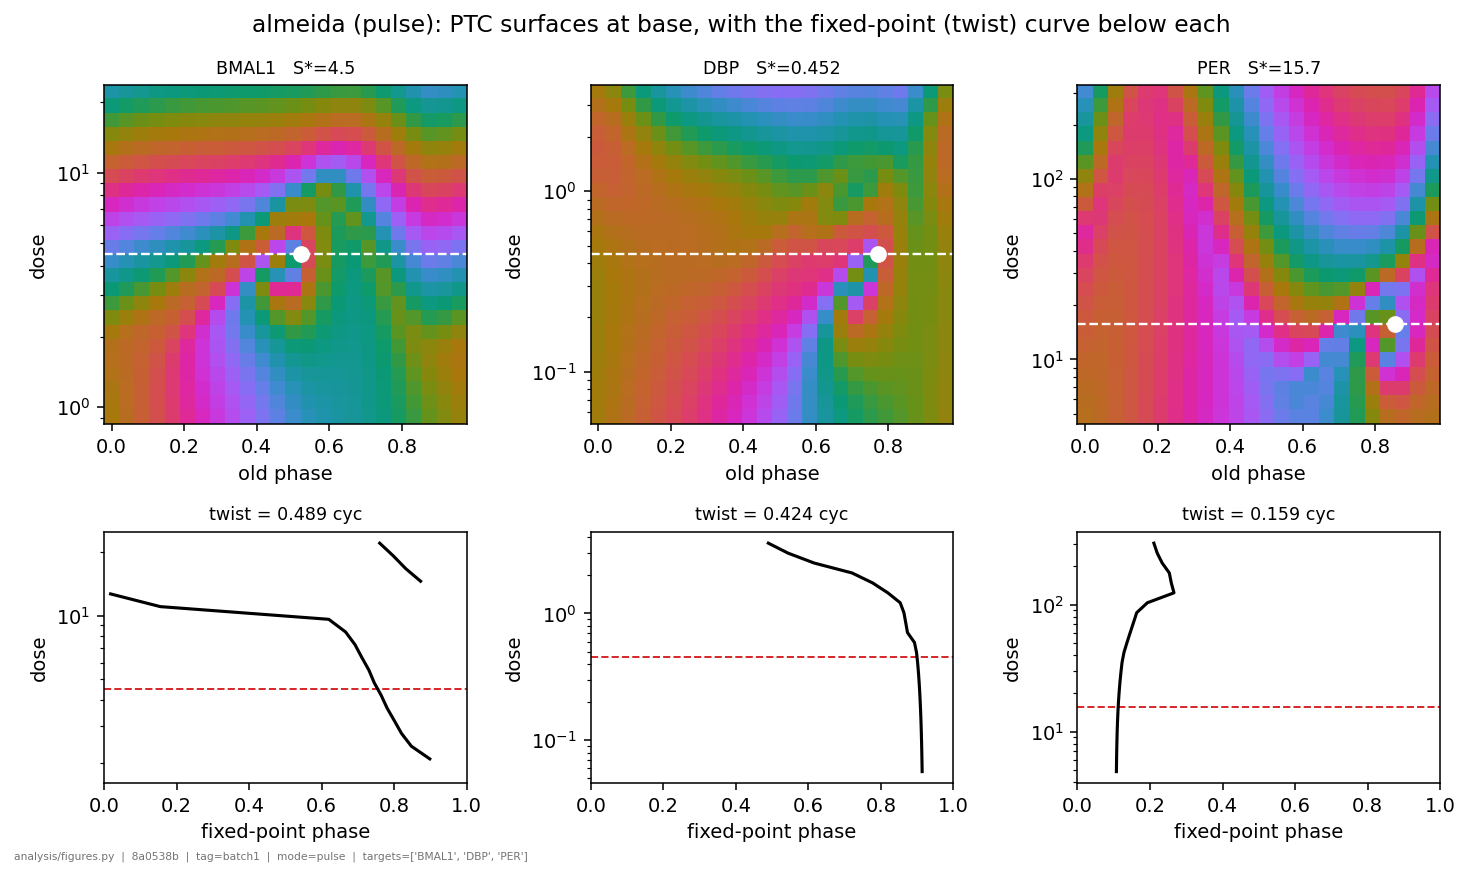
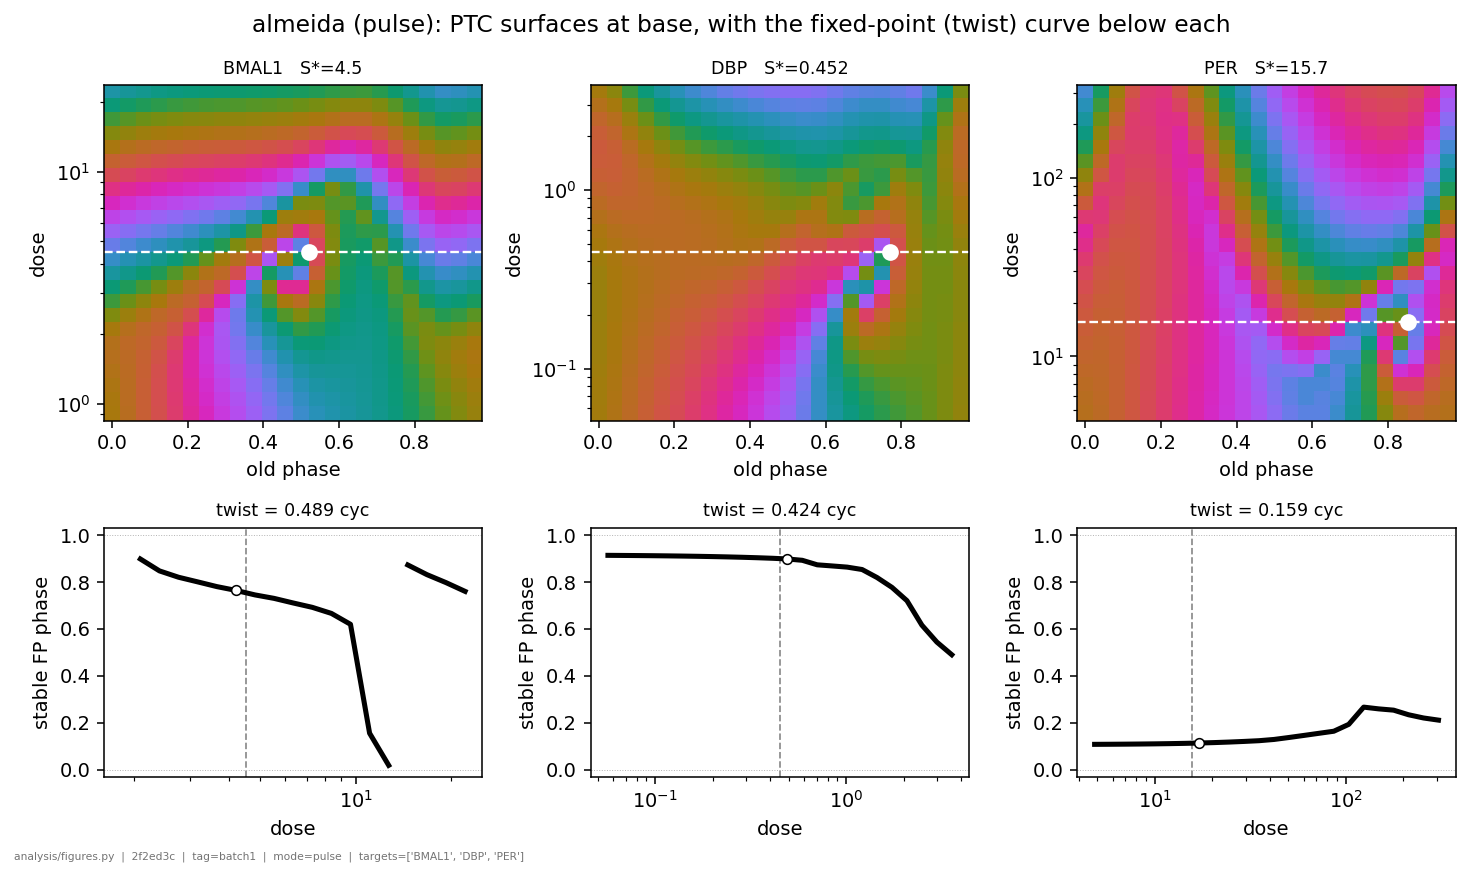
twist panel adopts the input_screen orientation: dose on x, FP phase on y
Consulted ../input_screen/sensitivity_full.py (plot_twist_movers, _broken) and
screen_core/plotting.py for the house convention, and matched it:

  * dose on x (log), stable FP phase on y, wrapped and held on a literal [0, 1]
    axis with dotted guides at 0 and 1 -- so a phase can be read straight off and
    compared against a PTC's old/new phase, rather than unwrapped onto a lift;
  * 0/1 wraps handled by inserting NaN breaks (plotting.broken, the same
    construction as input_screen's _broken) so the line does not draw fake
    verticals across the panel;
  * base curve black and bold (lw 2.6, top zorder), variants coloured;
  * S_crit marked as a dot ON the curve at the nearest sampled dose, plus a faint
    vertical guide.

Consequence worth noting: the twist panel and the phase map no longer share an
axis (dose is x on one, y on the other). That is the existing input_screen layout
too -- plot_screen stacks a PTC over a dose-vs-FP panel the same way -- and both
docstrings and PROJECT_SUMMARY now say so explicitly rather than leaving a reader
to assume a shared axis.

Also: the S_crit-vs-eps panel only takes a log axis when the range spans more than
a decade. Over a narrow range it rendered as '4.5 x 10^0' ticks that collided with
the neighbouring panel and conveyed nothing.

diff --git a/plotting.py b/plotting.py
@@ -35,16 +35,24 @@ def phase_cmap():
     return cm
 
 
-def _break_wrap(phase, y, thr=0.5):
-    """Insert NaN wherever a circular series jumps the 0/1 wrap, so a line plot does not draw
-    a false horizontal streak across the panel. The alternative -- a dense scatter -- loses the
-    sense of a continuous curve, which for a twist curve is the thing being read."""
-    p, yy = np.asarray(phase, float).copy(), np.asarray(y, float).copy()
-    jump = np.abs(np.diff(p)) > thr
-    for i in np.where(jump)[0][::-1]:
-        p = np.insert(p, i + 1, np.nan)
-        yy = np.insert(yy, i + 1, np.nan)
-    return p, yy
+def broken(x, y, thr=0.5):
+    """Insert NaN breaks where a wrapped phase jumps the 0/1 boundary, so a line plot does not
+    draw fake verticals across the panel. Keeps the natural [0, 1] y-scale.
+
+    Same construction as input_screen/sensitivity_full.py `_broken` (commit e955873) -- the
+    alternative, unwrapping onto a continuous lift, loses the [0,1] axis that makes a phase
+    readable, and a dense scatter loses the sense of a continuous curve, which for a twist
+    curve is the thing being read.
+    """
+    xo, yo = [], []
+    x = np.asarray(x, float)
+    y = np.asarray(y, float)
+    for k in range(len(y)):
+        xo.append(x[k]); yo.append(y[k])
+        if (k < len(y) - 1 and np.isfinite(y[k]) and np.isfinite(y[k + 1])
+                and abs(y[k + 1] - y[k]) > thr):
+            xo.append(np.nan); yo.append(np.nan)
+    return np.array(xo), np.array(yo)
 
 
 def phase_map(ax, old, doses, ptc, title=None, sings=(), scrit=None):
@@ -53,7 +61,8 @@ def phase_map(ax, old, doses, ptc, title=None, sings=(), scrit=None):
     NO fixed-point overlay. The twist curve used to be drawn on top of the surface in black,
     and it was a bad idea twice over: a line across a cyclic colour field is hard to read at
     all, and it visually competes with the surface it is meant to annotate. It gets its own
-    panel now -- see `twist_panel`.
+    panel now -- see `twist_panel`, which uses the house orientation (dose on x) and so does
+    NOT share an axis with this one.
     """
     im = ax.pcolormesh(old, doses, np.ma.masked_invalid(np.asarray(ptc).T),
                        cmap=phase_cmap(), vmin=0, vmax=1, shading='nearest')
@@ -69,25 +78,41 @@ def phase_map(ax, old, doses, ptc, title=None, sings=(), scrit=None):
     return im
 
 
-def twist_panel(ax, doses, twist, base=None, scrit=None, label=None, color='k', title=None):
-    """The stable fixed point (attracting entrainment phase) vs dose -- the TWIST curve, in
-    its own panel.
+def twist_panel(ax, doses, twist, base=None, scrit=None, label=None, color='k', title=None,
+                is_base=False, guides=True):
+    """The stable fixed point (attracting entrainment phase) vs dose -- the TWIST curve.
 
-    Plotted with the dose on the SAME log y-axis as the neighbouring phase map, so a reader
-    can carry a dose across from one to the other. Circular wraps are broken with NaN rather
-    than drawn, or the line streaks across the panel at every 0/1 crossing.
+    HOUSE ORIENTATION, matching input_screen (`plot_twist_movers`, `plot_screen`):
+    **dose on x (log), FP phase on y, wrapped to [0, 1]** with dotted guides at 0 and 1. The
+    phase axis stays literal rather than unwrapped, so a value can be read straight off it and
+    compared against a PTC's old/new phase; the 0/1 wraps are handled by breaking the line
+    (see `broken`) rather than by rescaling the axis.
+
+    `scrit` is marked as a dot ON the curve at the nearest sampled dose -- again the
+    input_screen convention -- plus a faint vertical guide, so the singularity dose can be
+    located without reading it off a second panel.
     """
     doses = np.asarray(doses, float)
+    if guides:
+        ax.axhline(0, color='0.7', lw=0.5, ls=':')
+        ax.axhline(1, color='0.7', lw=0.5, ls=':')
     if base is not None:
-        ax.plot(*_break_wrap(np.asarray(base, float), doses), color='0.65', lw=2.4,
-                label='base', zorder=2)
-    ax.plot(*_break_wrap(np.asarray(twist, float), doses), color=color, lw=1.6,
-            label=label, zorder=3)
+        ax.plot(*broken(doses, np.asarray(base, float)), color='k', lw=2.6, zorder=6,
+                label='base')
+    ax.plot(*broken(doses, np.asarray(twist, float)),
+            color=('k' if is_base else color), lw=(2.6 if is_base else 1.3),
+            zorder=(6 if is_base else 3), label=label)
     if scrit is not None and np.isfinite(scrit):
-        ax.axhline(scrit, color='tab:red', ls='--', lw=1.0)
-    ax.set_yscale('log')
-    ax.set_xlim(0, 1)
-    ax.set_xlabel('fixed-point phase'); ax.set_ylabel('dose')
+        ax.axvline(scrit, color='0.55', ls='--', lw=0.9, zorder=1)
+        tw = np.asarray(twist, float)
+        k = int(np.argmin(np.abs(doses - scrit)))
+        if np.isfinite(tw[k]):
+            ax.plot([doses[k]], [tw[k]], marker='o', ms=5,
+                    mfc=('white' if is_base or base is not None else color),
+                    mec='black', mew=0.8, zorder=7)
+    ax.set_xscale('log')
+    ax.set_ylim(-0.03, 1.03)
+    ax.set_xlabel('dose'); ax.set_ylabel('stable FP phase')
     if title:
         ax.set_title(title, fontsize=9)
     return ax

diff --git a/analysis/figures.py b/analysis/figures.py
@@ -380,7 +380,7 @@ def fig_surfaces(ch, model, mode):
         phase_map(axes[0][k], ch[f'old__{t}'], ch[f'doses__{t}'], ch[f'ptc__{t}'],
                   title=f"{t}   S*={ch['S'][k]:.3g}", sings=sings, scrit=ch['S'][k])
         twist_panel(axes[1][k], ch[f'doses__{t}'], ch[f'twist__{t}'], scrit=ch['S'][k],
-                    title=f"twist = {ch['total_twist'][k]:.3f} cyc")
+                    is_base=True, title=f"twist = {ch['total_twist'][k]:.3f} cyc")
     fig.suptitle(f"{model} ({mode}): PTC surfaces at base, with the fixed-point (twist) "
                  f"curve below each", fontsize=12)
     fig.tight_layout()
@@ -416,7 +416,7 @@ def fig_sweep(sw, model):
     ends = [0, i0, len(eps) - 1]
 
     fig = plt.figure(figsize=(16.5, 9.2))
-    gs = fig.add_gridspec(3, 6, hspace=0.42, wspace=0.38)
+    gs = fig.add_gridspec(3, 6, hspace=0.45, wspace=0.46)
 
     for c, (si, sn) in enumerate(zip(oidx, obs)):          # row 0: the limit cycle
         ax = fig.add_subplot(gs[0, c])
@@ -429,9 +429,10 @@ def fig_sweep(sw, model):
     ax = fig.add_subplot(gs[0, 3])                          # the twist curve at every eps
     for i in range(len(eps)):
         if np.isfinite(TW[i]).any():
-            twist_panel(ax, doses, TW[i], color=cmap(norm(eps[i])))
-    twist_panel(ax, doses, np.asarray(sw['base_twist']), color='k')
-    ax.set_title('twist curve vs dose', fontsize=9)
+            twist_panel(ax, doses, TW[i], color=cmap(norm(eps[i])), guides=(i == 0))
+    twist_panel(ax, doses, np.asarray(sw['base_twist']), is_base=True,
+                scrit=float(sw['base_S']), guides=False)
+    ax.set_title('FP phase vs dose (twist), all eps', fontsize=9)
     sm = plt.cm.ScalarMappable(norm=norm, cmap=cmap); sm.set_array([])
     plt.colorbar(sm, ax=ax, fraction=0.05, label='eps')
 
@@ -450,7 +451,10 @@ def fig_sweep(sw, model):
         y = np.asarray(y, float)
         ax.plot(eps, y, 'o-', color=col, ms=4)
         ax.axvline(0, color='0.7', lw=0.8, ls=':')
-        if ttl.startswith('S_crit'):
+        # log only when it earns its keep: a log axis over a range this narrow renders as
+        # '4.5 x 10^0' style ticks that collide with the neighbouring panel and say nothing.
+        fin = y[np.isfinite(y)]
+        if ttl.startswith('S_crit') and len(fin) and fin.max() / max(fin.min(), 1e-30) > 10:
             ax.set_yscale('log')
         ax.set_xlabel('eps'); ax.set_title(ttl, fontsize=9)
         ax.tick_params(labelsize=7)

diff --git a/PROJECT_SUMMARY.md b/PROJECT_SUMMARY.md
@@ -438,10 +438,17 @@ Pure read of the saved npz -- no figure costs compute to rebuild.
 
 ### Reading a PTC surface
 
-The dashed white line is `S_crit`; the white dot is the phase singularity. **The fixed-point
-(twist) curve is no longer drawn over the surface** -- it is its own quantity and gets its own
-panel, on a shared dose axis. A line across a cyclic colour field is hard to read and competes
-with the surface it annotates.
+On a **PTC surface**: x is old phase, y is dose (log), colour is new phase; the dashed white
+line is `S_crit` and the white dot is the phase singularity.
+
+On a **twist panel**: x is dose (log), y is the stable fixed-point phase wrapped to [0, 1],
+with dotted guides at 0 and 1, a vertical guide at `S_crit` and a dot where the curve crosses
+it. This is the input_screen house orientation (`plot_twist_movers`), and 0/1 wraps are handled
+by breaking the line with NaN rather than by unwrapping -- keeping the phase axis literal so a
+value can be read straight off it. Note the two panel types therefore do NOT share an axis.
+
+**The fixed-point curve is no longer drawn over the surface.** A line across a cyclic colour
+field is hard to read and competes with the surface it annotates.
 
 ## 7. Glossary
 
